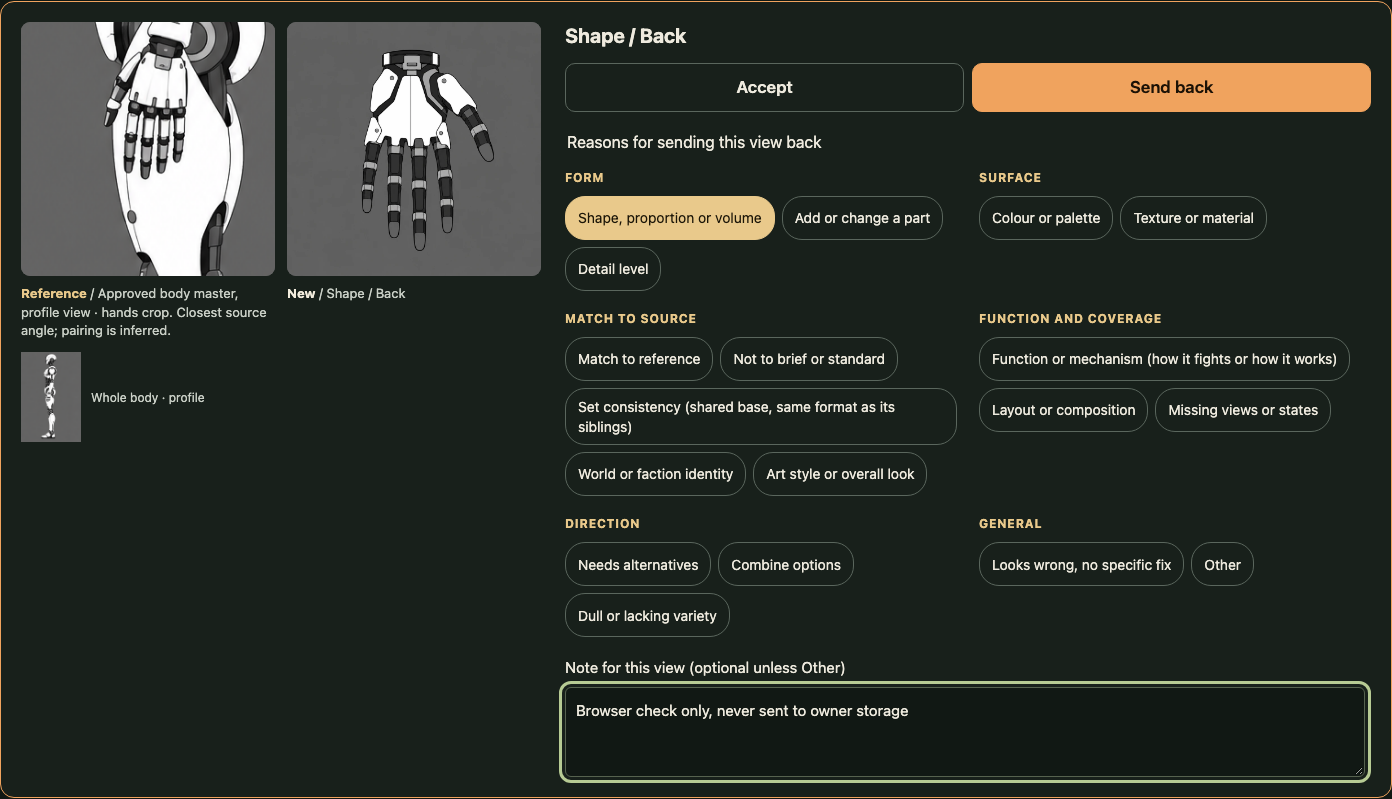
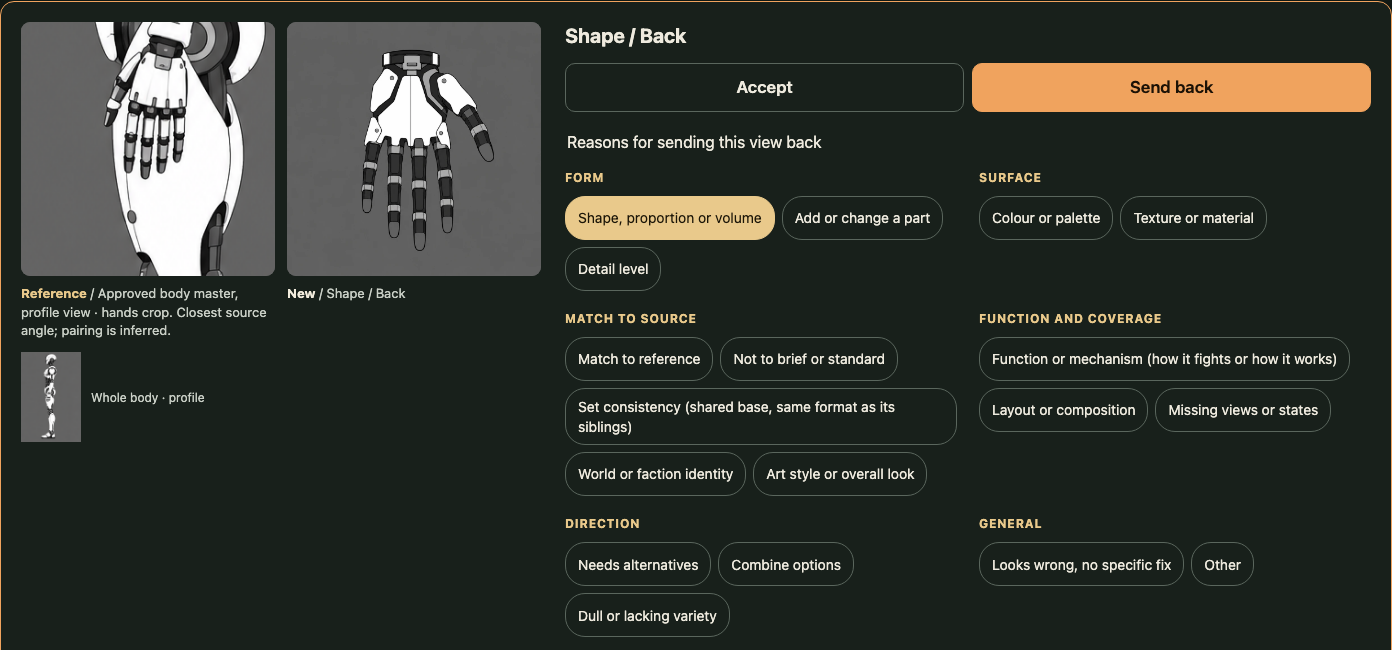
README: one pixel check strip on the lean droid, residency line under the title, role in my words, approval wording dated
Claude-Session: https://claude.ai/code/session_013i6o3R7E7trpxbxvAKca6H

diff --git a/README.md b/README.md
@@ -1,5 +1,7 @@
 # Alex Net: 2D concept art to 3D models, built by AI agents with no person watching
 
+**My application to the Anthropic Residency.** The question behind it: how do you keep oversight of AI agents on long work that nobody watches, and what does that work cost?
+
 ![Six droid designs. Top row: the concept art I approved. Bottom row: the 3D models agents built from it.](figures/droids-art-to-model.jpg)
 
 *Top row: concept art I approved. Bottom row: the 3D models AI agents built from it, over hours, with no person watching the rounds.*
@@ -11,11 +13,11 @@
 - **A daily loop.** I set the agents on a task when I leave for work, play what they made when I get home, and my feedback becomes their next task. The project pushes on how far that can go.
 - **A machine learning project.** Every approval, every send-back with its reasons and every blinded pick is a label. The aim is a trained judge (a weights model) that learns from those labels, so the pipeline can run like a factory and I only check what it cannot.
 
-**See it:** [play the game world](https://world.alejandro-gutierrez.com/?play=1) · [approved concept art](https://alejandro-gutierrez.com/diary/concept-art-261110/concept-art/) · [art I sent back, with reasons](https://alejandro-gutierrez.com/diary/concept-art-261110/revisions/) · [Atlanta, the second 3D world](https://atlanta.alejandro-gutierrez.com/world-view/) · [3 minute video](https://youtu.be/RBdJE05KqF8)
+**See it:** [alejandro-gutierrez.com](https://alejandro-gutierrez.com/) · [play the game world](https://world.alejandro-gutierrez.com/?play=1) · [approved concept art](https://alejandro-gutierrez.com/diary/concept-art-261110/concept-art/) · [Atlanta, the second 3D world](https://atlanta.alejandro-gutierrez.com/world-view/) · [3 minute video](https://youtu.be/RBdJE05KqF8)
 
 ## About me
 
-- **My current role.** I am a Senior Analyst at Intercontinental Exchange, a technical lead role. I build and manage predictive and prescriptive risk models for data centers, operations and projects, and I lead risk model analysis on corporate, operational and compliance data: where the largest cost reductions lie, measured by risk and utilization.
+- **My current role.** I am a technical leader: a Senior Analyst at Intercontinental Exchange, where I build and manage predictive and prescriptive risk models for data centers, operations and projects. I lead risk model analysis on corporate, operational and compliance data, showing where the largest cost reductions and savings lie as measured by risk and utilization.
 - **My role here.** I am the only person on this project. I write the specs and the rules, approve or send back every design, fix each experiment's pass rule before it runs, and direct a fleet of AI agents, mostly Claude, that merged 1,213 pull requests across 18 repos in a month. The agents work while I am at my day job.
 - **Why the residency.** Directing that fleet taught me that rules added after each failure do not keep up with agents working for hours unwatched. I want to learn to measure that properly, starting with the judge in this pipeline.
 - **Find me:** [LinkedIn](https://www.linkedin.com/in/alexdga/) · [GitHub](https://github.com/Alex-Zeo)
@@ -151,13 +153,9 @@ Limits: one droid, one build per ladder, no repeat runs. A gap under about 10 po
 
 ### What can a pixel check judge?
 
-![Six panels: the concept art, the build render, the two compared with no alignment, after alignment, edges inside the body, and colour difference.](figures/pixel-diff-alignment.png)
+![Seven panels for the lean droid: the approved art, the build render, the two overlapped with no alignment, edges inside the body, colour difference, and the correction drawn by intensity and by hue.](figures/pixel-checks-lean.png)
 
-*How the pixel check compares a build with the art. Without alignment most of the miss is framing; after alignment what is left is real.*
-
-![Four ways of drawing a correction on the render: where the miss is, grow or shrink by intensity, direction as hue, and arrows.](figures/pixel-correction-in-colour.png)
-
-*Four ways of drawing the correction onto the render for the builder to read. The reading test below asks which of these a model can read.*
+*What the pixel checks see on one droid. Panels 3 to 5: red is only in the art, blue only in the build; in panel 5 blue is close and yellow to red is far. Panels 6 and 7 draw the correction onto the render for the builder to read: red means push out and blue means pull in, or the hue gives the direction. These are illustrations of the method, not output of the scorer used in the results.*
 
 - **Direction, not size.** On 36 planted cases the pixel score got the direction right in 34 (94%, 95% 82 to 98), but it moved about 2.6 points where the blind scorer moved 11.8. It is used as a flag and an early stop, never as the score.
 - **Not single parts.** On the best build the outline score put hips at 90 where the scorers ranked hips lowest, and hands at 53 where the scorers gave 73 to 79. Pixel and scorers disagree in both directions by part.
@@ -167,7 +165,7 @@ Limits: one droid, one build per ladder, no repeat runs. A gap under about 10 po
 
 Two kinds of label come out of this project. Both are mine, and both are kept as an append-only record.
 
-**1. Approve or send back, on every piece of concept art.** Nothing is built from art I have not approved. As of Nov 20: 365 approved, 18 sent back, 45 waiting. Each view is accepted or sent back by itself, with the approved reference beside it, and a send-back carries reasons from a fixed list of 18 in six groups (form, surface, match to source, function and coverage, direction, general).
+**1. Approve or send back, on every piece of concept art.** Nothing is built from art I have not approved. As of Nov 20: 365 approved, 18 sent back, 45 waiting, decided a set at a time. A send-back carries reasons from a fixed list of 18. Since Nov 20 the page shows the approved reference beside every view, each view is accepted or sent back by itself, and the reasons are grouped (form, surface, match to source, function and coverage, direction, general).
 
 ![The approval page: the approved reference beside a new hand view, Accept and Send back buttons, and the grouped reasons for sending it back.](figures/labelling-reasons-per-view.png)
 
